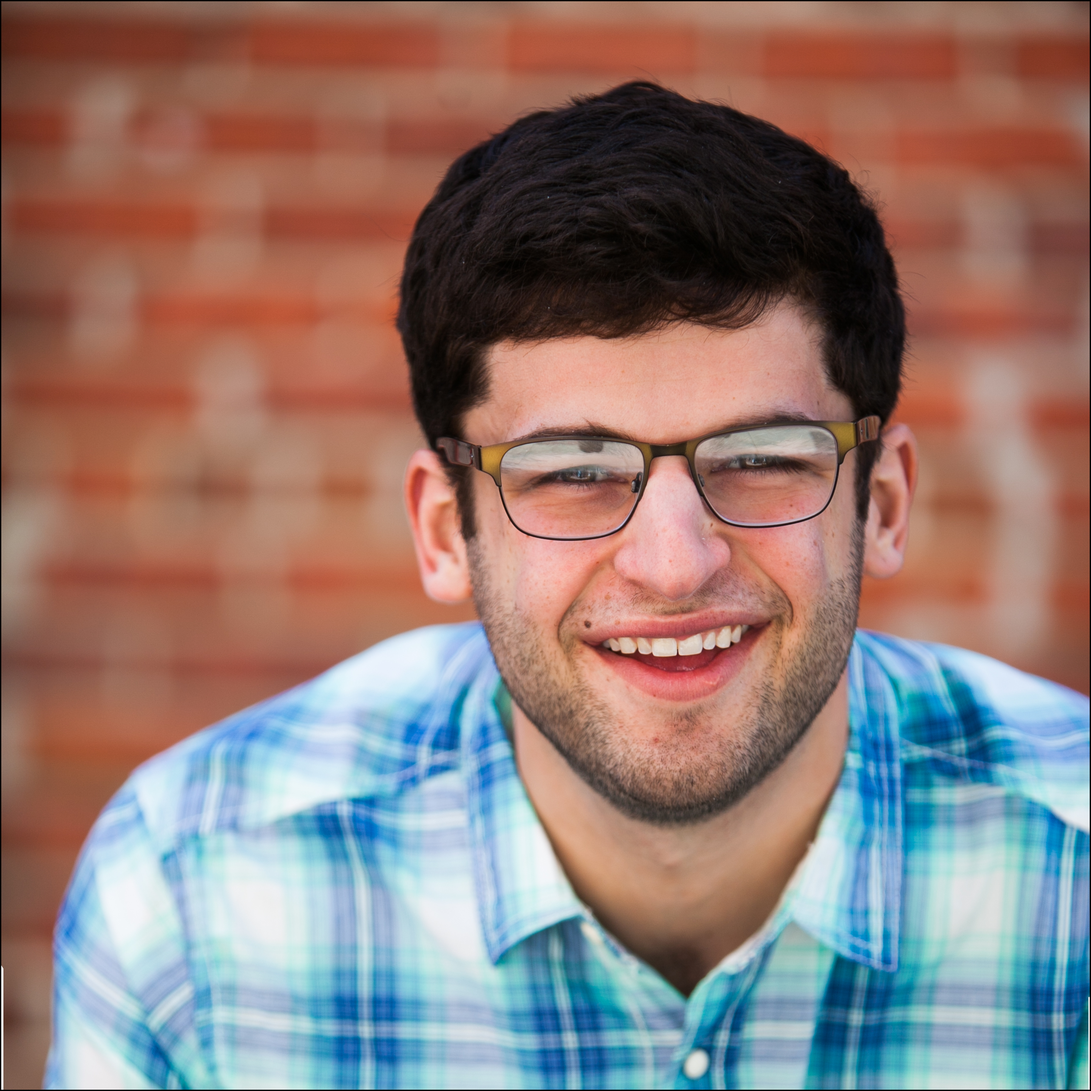
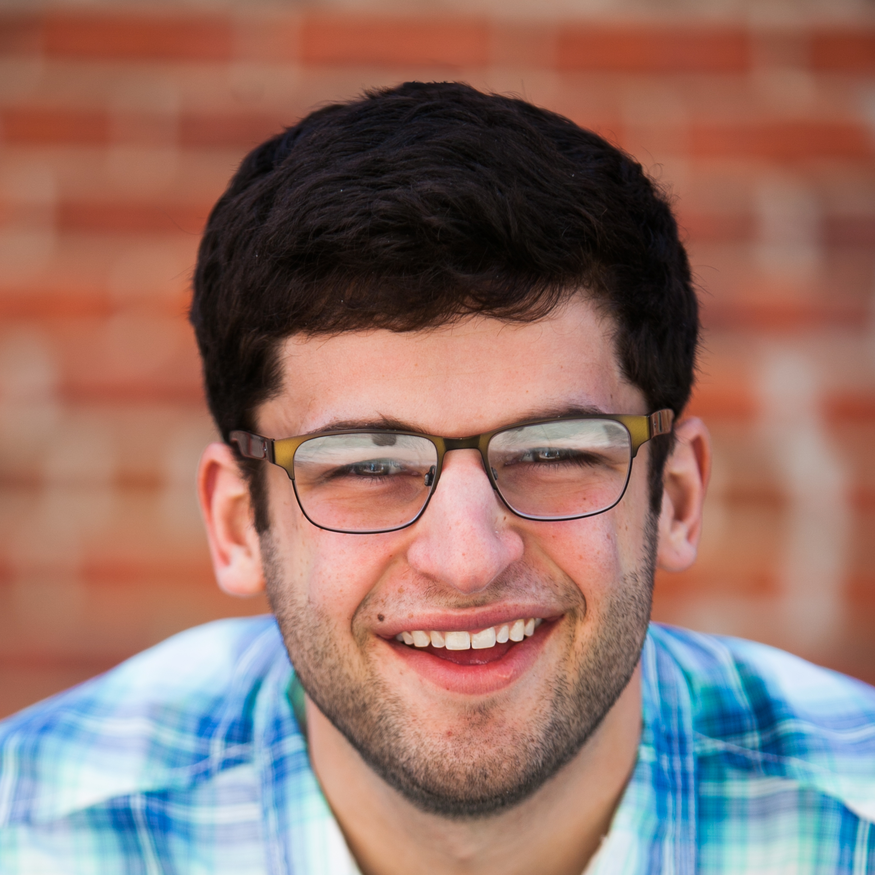
push to pages

diff --git a/index.html b/index.html
@@ -37,20 +37,28 @@
       <section class="about">
         <h1>ABOUT ME</h1>
         <div class="about-div">
-          <img class="about-picture" src="headshot.jpg" alt="" />
-
           <div class="about-paragraph">
             <p class="headline">Builder by trade. Digital by design.</p>
-            <br>
-            <p>I like to think of myself as a Good Samaritan, an avid thinker of ideas, and a general man of the people. More simply put, I thoroughly enjoy talking with greater minds than myself and discussing new ideas.
-
-I prefer my puns intended, my java-scripted, and my movie quotes from The Big Leboski.
-
-Although my experience is minimal, my passion for this field runs deep and I would be an ideal employee, because I love many things.
-solving problems
-learning quickly
-adapting to change
-thinking creatively</p>
+            <p>My name is Andrew London and I am a web developer. I enjoy talking with great minds and discussing new ideas. I am a problem solver, a quick learner, and adaptable to change. When I'm not building products for the digital world, I'm usually working on any one of the countless other projects I have going to keep me busy. Let me know if there is anything I can help you with.
+            </p>
+          </div>
+          <img class="about-picture" src="headshot.jpg" alt="" />
+          <div class="skills">
+            <p class="headline">Tech I like to use:</p>
+            <p>
+              JavaScript · jQuery · AJAX <br>
+              AngularJS · Backbone.js · Ionic <br>
+              HTML · CSS · Sass · Bootstrap <br>
+              Git · Github <br>
+              Bower · NPM · Browserify · Gulp <br>
+            </p>
+            <!-- <p>
+              JavaScript · jQuery · AJAX <br>
+              AngularJS · Backbone.js · Ionic <br>
+              HTML · CSS · Sass · Bootstrap <br>
+              Git · Github <br>
+              Bower · NPM · Browserify · Gulp <br>
+            </p> -->
           </div>
         </div>
       </section>
@@ -149,11 +157,23 @@ thinking creatively</p>
             <!-- Wrapper for slides -->
             <div class="carousel-inner" role="listbox">
               <div class="item hovereffect active">
+                <img src="chuck.png" alt="Chania">
+                <div class="carousel-caption overlay">
+                  <h1>ChuckWagon App</h1>
+                  <p>A food truck tracking app for the Charleston Area built with Ionic and the Google Maps API.</p>
+                  <div class="button-wrap btn">
+                    <a target="_blank" href="http://www.andrewdlondon.com/chuckwagon/public/myApp/www/#/tab/home"><h3><i class="fa fa-external-link" aria-hidden="true"></i> LIVE</h3></a>
+                    <a target="_blank" href="http://www.github.com/adlondon/chuckwagon"><h3><i class="fa fa-github-square" aria-hidden="true"></i> CODE</h3></a>
+                  </div>
+                </div>
+              </div>
+
+              <div class="item hovereffect">
                 <img src="sk8er.png" alt="Chania">
                 <div class="carousel-caption overlay">
                   <h1>Powell Peralta Site</h1>
                   <p>A skateboarding website built with HTML and CSS from a wireframe image.</p>
-                  <div class="button-wrap">
+                  <div class="button-wrap btn">
                     <a target="_blank" href="http://www.andrewdlondon.com/sk8er"><h3><i class="fa fa-external-link" aria-hidden="true"></i> LIVE</h3></a>
                     <a target="_blank" href="http://www.github.com/adlondon/sk8er"><h3><i class="fa fa-github-square" aria-hidden="true"></i> CODE</h3></a>
                   </div>
@@ -165,7 +185,7 @@ thinking creatively</p>
                 <div class="carousel-caption overlay">
                   <h1>Ninja Turtles Game</h1>
                   <p>A simple browser based game built with Javascript.</p>
-                  <div class="button-wrap">
+                  <div class="button-wrap btn">
                     <a target="_blank" href="http://www.andrewdlondon.com/constructGame"><h3><i class="fa fa-external-link" aria-hidden="true"></i> LIVE</h3></a>
                     <a target="_blank" href="http://www.github.com/adlondon/constructGame"><h3><i class="fa fa-github-square" aria-hidden="true"></i> CODE</h3></a>
                   </div>
@@ -176,21 +196,13 @@ thinking creatively</p>
                 <img src="jeopardy.png" alt="Flower">
                 <div class="carousel-caption overlay">
                   <h1>JEOPARDY!</h1>
-                  <p>A Jeopardy game buil with Angular using the jService API</p>
-                  <div class="button-wrap">
+                  <p>A Jeopardy game built with Angular using the jService API</p>
+                  <div class="button-wrap btn">
                     <a target="_blank" href="http://www.andrewdlondon.com/Angular-Jeopardy-Game"><h3><i class="fa fa-external-link" aria-hidden="true"></i> LIVE</h3></a>
                     <a target="_blank" href="http://www.github.com/adlondon/Angular-Jeopardy-Game"><h3><i class="fa fa-github-square" aria-hidden="true"></i> CODE</h3></a>
                   </div>
                 </div>
               </div>
-
-              <!-- <div class="item hovereffect">
-                <img src="http://www.fillmurray.com/610/381" alt="Flower">
-                <div class="carousel-caption overlay">
-                  <h1>Flowers</h1>
-                  <p>Beatiful flowers in Kolymbari, Crete.</p>
-                </div>
-              </div> -->
             </div>
 
             <!-- Left and right controls -->

diff --git a/css/styles.css b/css/styles.css
@@ -58,19 +58,29 @@ nav {
   justify-content: center; }
   .about .about-div {
     display: flex;
+    justify-content: space-around;
     margin-top: 5%; }
     .about .about-div .about-picture {
       margin-right: 5%;
       width: 275px;
-      height: 100%; }
+      height: 100%;
+      border-radius: 100%; }
     .about .about-div .about-paragraph {
       margin-top: 0;
       font-size: 20px;
-      width: 125%; }
+      width: 33%; }
       .about .about-div .about-paragraph .headline {
-        font-size: 27px;
+        font-size: 19px;
         font-weight: bold;
         margin-top: -8px; }
+    .about .about-div .skills {
+      text-align: center; }
+      .about .about-div .skills .headline {
+        font-size: 19px;
+        font-weight: bold;
+        margin-top: -8px; }
+      .about .about-div .skills p {
+        font-size: 20px; }
 
 .resume {
   display: flex;
@@ -198,7 +208,6 @@ nav {
       transition-delay: .2s; }
       .portfolio .hovereffect .button-wrap a h3 {
         display: inline-block;
-        border: 2px solid #131B23;
         width: 200px;
         margin: 37px;
         padding: 20px;

diff --git a/css/_about.scss b/css/_about.scss
@@ -5,21 +5,33 @@
   justify-content: center;
   .about-div {
     display: flex;
-    // flex-direction: row-reverse;
-    margin-top: 5%;
+    justify-content: space-around;
+   margin-top: 5%;
     .about-picture {
       margin-right: 5%;
       width: 275px;
       height: 100%;
+      border-radius: 100%;
     }
     .about-paragraph {
       margin-top: 0;
       font-size: 20px;
-      width: 125%;
+      width: 33%;
       .headline {
-        font-size: 27px;
+        font-size: 19px;
         font-weight: bold;
         margin-top: -8px;
+      }
+    }
+    .skills {
+      text-align: center;
+      .headline {
+        font-size: 19px;
+        font-weight: bold;
+        margin-top: -8px;
+      }
+      p {
+        font-size: 20px;
       }
     }
   }

diff --git a/css/_portfolio.scss b/css/_portfolio.scss
@@ -3,6 +3,7 @@
   content: "";
 }
 
+
 //Help with the hover effects in Bootstraps slider came from http://miketricking.github.io/dist/
 .portfolio {
   border: 2px solid $tan;
@@ -69,7 +70,6 @@
         transition-delay:.2s;
         h3 {
           display: inline-block;
-          border: 2px solid $black;
           width: 200px;
           margin: 37px;
           padding: 20px;
